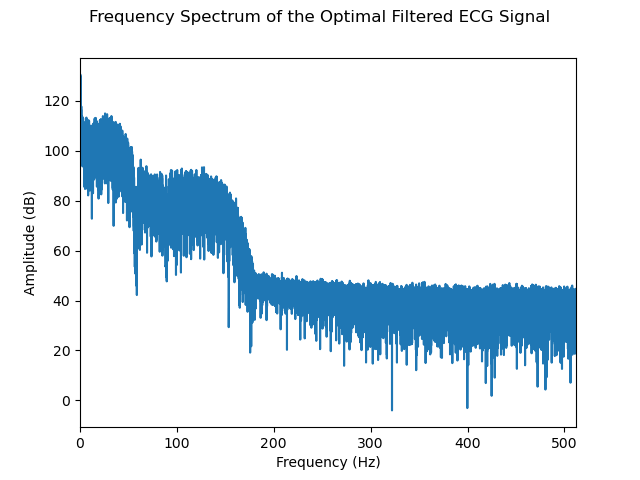
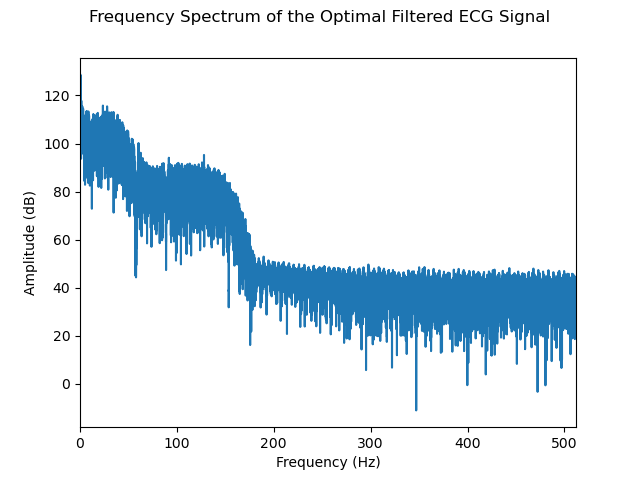
Improved FIR

diff --git a/main.py b/main.py
@@ -169,13 +169,15 @@ def combineFilters(numerator_1, denominator_1, numerator_2, denominator_2):
 def createWindowFilter(notches, sample_rate, notch_width, num_taps):
     """Compute and return the bandstop  window filter array for the specified notches. Adjusting the window type and band width changes attenuation."""
 
-    window = ('kaiser', 4)
+    window = ('kaiser', 2.5)
     f1, f2 = notches
-    width = notch_width / 1.3 #One sided 3dB bandwidth, in Hz
+    width = notch_width / 2.0 #One sided 3dB bandwidth, in Hz
 
     cutoff_1 = [(f1 - width), (f1 + width)]
     cutoff_2 = [(f2 - width), (f2 + width)]
     cutoff = [(f1 - width), (f1 + width), (f2 - width), (f2 + width)]
+
+
     filter_1 = firwin(numtaps=num_taps, cutoff=cutoff_1, window=window, fs=sample_rate)
     filter_2 = firwin(numtaps=num_taps, cutoff=cutoff_2, window=window, fs=sample_rate)
     filter_overall =  firwin(numtaps=num_taps, cutoff=cutoff, window=window, fs=sample_rate)
@@ -188,13 +190,13 @@ def createOptimalFilter(notches, sample_rate, notch_width, gains, num_taps):
     """Compute and return the bandstop  optimal filter arrays for the specified notches. Adjusting the window type and band width changes attenuation."""
 
     f1, f2 = notches
-    width = notch_width / 1.3 #One sided 3dB bandwidth, in Hz - 5.0 / 1.3
-    stop = 12 #Stop band weighting - 12
+    width = notch_width / 2.0 #One sided 3dB bandwidth, in Hz - 5.0 / 1.3
+    stop = 1000 #Stop band weighting - 12
     pass_ = 1 #Passband weighting - 1
     weight = [pass_, stop, pass_] #Isolated filter weighting
     weight_overall = [pass_, stop, pass_, stop, pass_] #Overall filter weighting
     gains_overall = [1, 0, 1, 0, 1] #Indicates stop and passband locations in the specified bands
-    alpha = 0.59 #Minimal Spacing of notch to allow convergence
+    alpha = 0.001 #Minimal Spacing of notch to allow convergence
 
     band_1= [0,  f1 - width, f1 - alpha, f1 + alpha, f1 + width, sample_rate / 2] #Pad the stop band as the method doesnt convege well otherwise
     band_2= [0, f2 - width, f2 - alpha, f2 + alpha, f2 + width, sample_rate / 2]
@@ -212,8 +214,8 @@ def createFreqSamplingFilter(notches, sample_rate, notch_width, gains, num_taps)
     """Compute and return the bandstop frequency sampling filter arrays for the specified notches. Adjusting the window type and band width changes attenuation."""
 
     f1, f2 = notches
-    window_type = ('kaiser', 4)
-    width = notch_width / 1.4 #One sided 3dB bandwidth, in Hz
+    window_type = ('kaiser', 2.5)
+    width = notch_width / 2.0 #One sided 3dB bandwidth, in Hz
     alpha = width - 0.01 #Added transition points to narrow the band further
     omega = width - 0.1 
     #gain = np.power(10, np.array(gains)/20.0)
